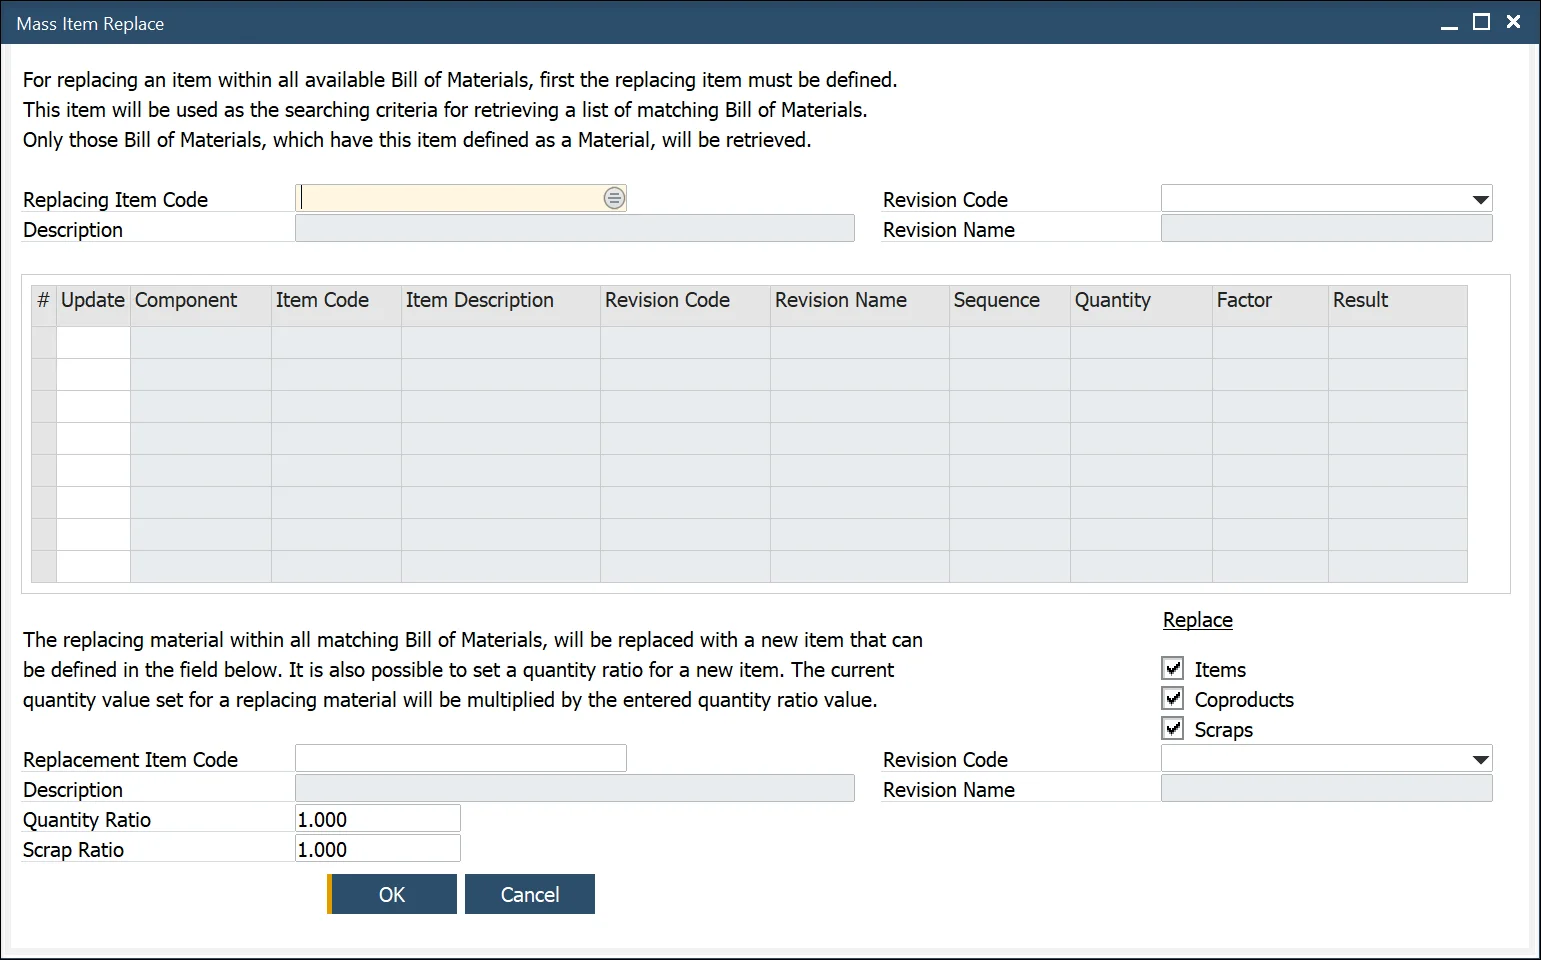
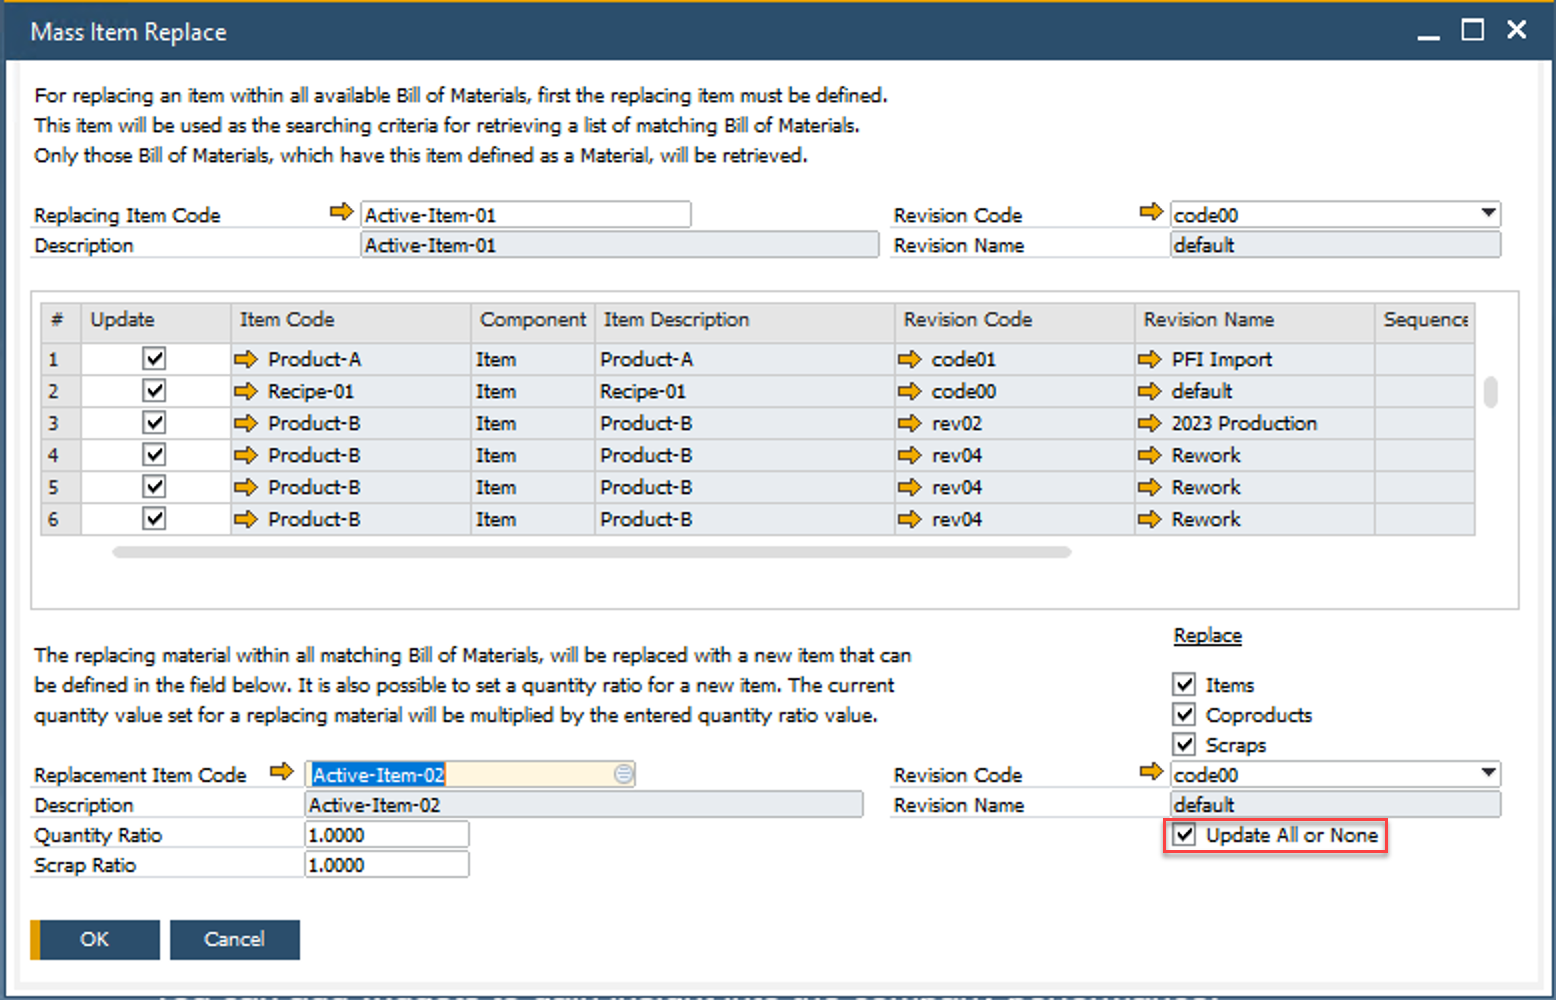
update

diff --git a/docs/processforce/user-guide/formulations-and-bill-of-materials/mass-item-replacement.md b/docs/processforce/user-guide/formulations-and-bill-of-materials/mass-item-replacement.md
@@ -26,7 +26,9 @@ This form allows the user to quickly search, change, and replace one Item with a
     The current quantity value for the replacement material is multiplied by the entered quantity ratio (default: 1.000).
 - The scrap ratio field allows adjustments for material waste.
 
-![Mass Item Replace](./media/mass-item-replace/mass-item-replace.webp)
+    ![Mass Item Replace](./media/mass-item-replace/mass-item-replace.webp)
+
+**Update All or None**: When this parameter is selected, the system rolls back all updates if an error occurs in any of the BOMs. If it is not selected, the system updates each BOM individually and commits the changes one by one.
 
 :::info
     For extensive modifications to Bills of Materials, consider using the Bulk Change feature available in CompuTec AppEngine: [Bulk Change](/docs/appengine/plugins-user-guide/bulk-changes-on-bills-of-materials/overview).
